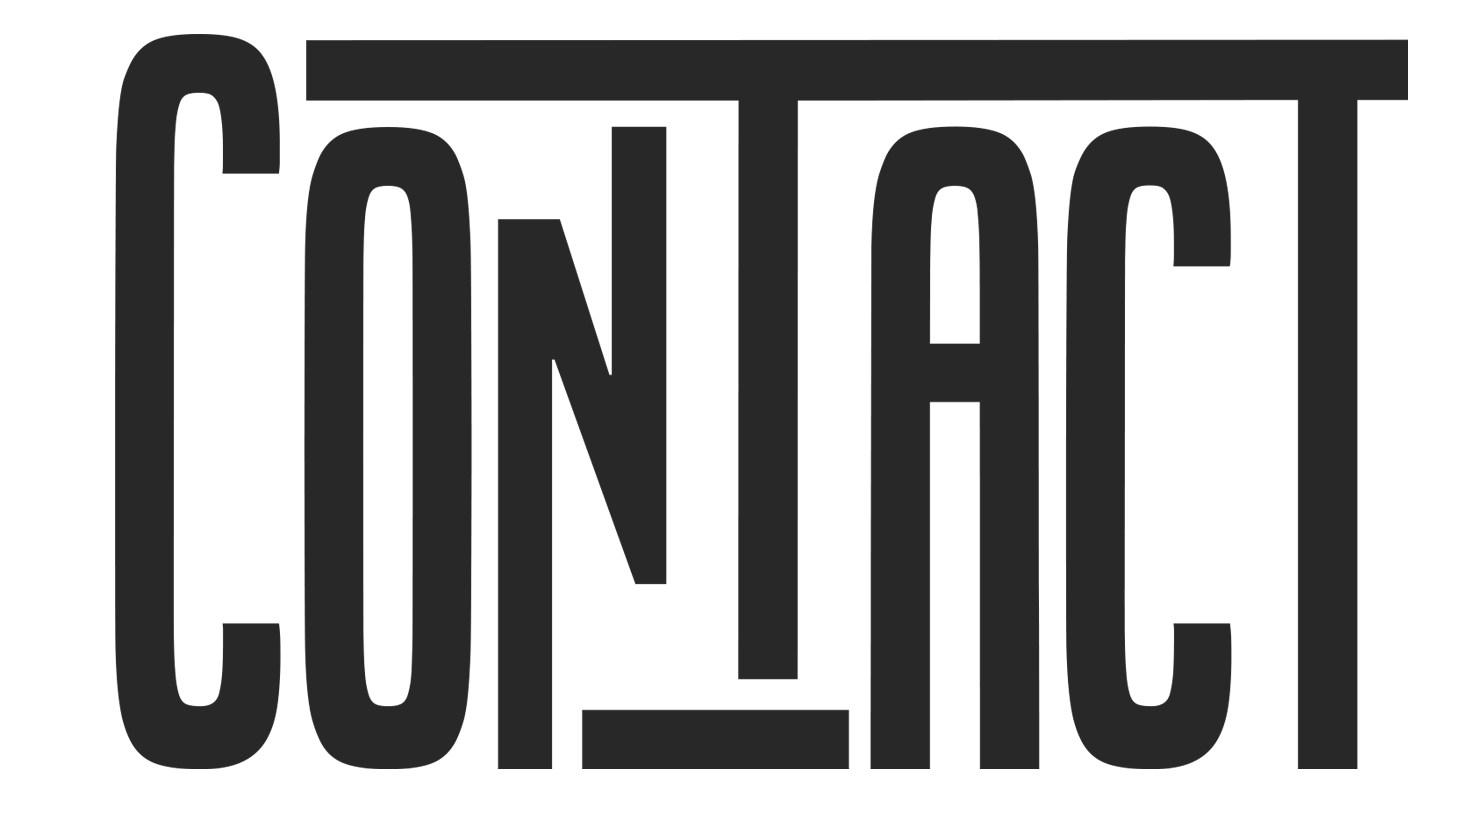
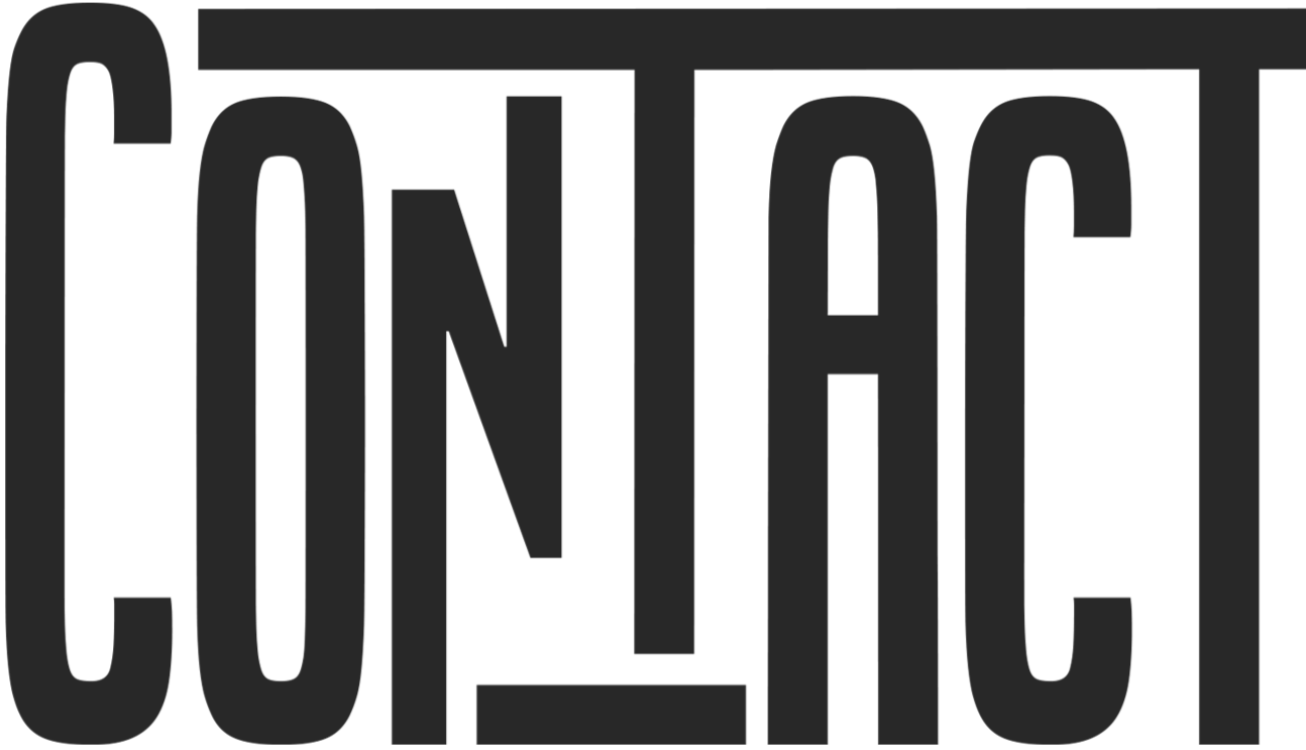
updated menu

diff --git a/sam-harlow/src/layouts/Default.vue b/sam-harlow/src/layouts/Default.vue
@@ -1,9 +1,56 @@
 <template>
   <div class="layout">
     <header class="header">
-      <g-link to="/contact"
-        ><g-image src="@/assets/images/contact.png" width="75px"
-      /></g-link>
+      <g-link to="/contact">
+      <svg version="1.0" xmlns="http://www.w3.org/2000/svg"
+ width="1306.000000pt"  viewBox="0 0 1306.000000 750.000000"
+ preserveAspectRatio="xMidYMid meet">
+
+<g transform="translate(0.000000,750.000000) scale(0.100000,-0.100000)"stroke="none">
+<path d="M662 7459 c-237 -28 -369 -114 -459 -300 -72 -147 -96 -260 -123
+-564 -28 -310 -36 -5237 -10 -5600 43 -596 163 -828 467 -905 113 -29 347 -44
+496 -31 219 19 345 69 457 181 137 136 196 315 221 672 12 167 9 575 -4 596
+-6 9 -75 12 -286 12 l-279 0 -5 -287 c-9 -474 -33 -534 -220 -542 -217 -8
+-247 54 -268 559 -14 345 -4 5077 12 5270 16 206 45 297 104 336 29 19 151 31
+209 20 47 -9 95 -50 117 -101 30 -68 49 -256 49 -491 l0 -214 286 0 286 0 -5
+328 c-4 273 -8 347 -26 449 -85 492 -257 626 -796 622 -82 -1 -183 -5 -223
+-10z"/>
+<path d="M1985 7397 c-3 -7 -4 -143 -3 -302 l3 -290 2184 -3 2184 -2 -4 -2918
+-4 -2917 295 0 295 0 3 2916 2 2916 1298 6 c713 4 1849 7 2525 7 l1227 0 0
+-3375 0 -3375 23 -5 c12 -3 146 -4 297 -3 l275 3 5 3375 5 3375 233 3 232 2 0
+300 0 300 -5535 0 c-4448 0 -5537 -2 -5540 -13z"/>
+<path d="M8352 6530 c-188 -16 -321 -62 -406 -140 -115 -106 -192 -304 -232
+-595 -21 -157 -32 -1397 -33 -3916 -1 -1648 0 -1817 15 -1823 20 -8 548 -8
+568 0 15 6 16 178 16 1855 l0 1849 250 0 250 0 0 -1849 c0 -1677 1 -1849 16
+-1855 9 -3 141 -6 295 -6 221 0 281 3 285 13 10 27 -15 5530 -26 5637 -45 443
+-143 662 -340 758 -135 66 -388 94 -658 72z m312 -613 c97 -64 116 -239 116
+-1058 0 -278 -2 -508 -4 -510 -2 -2 -115 -3 -250 -1 l-246 3 0 527 c0 856 22
+1013 146 1052 49 16 207 7 238 -13z"/>
+<path d="M10322 6530 c-284 -25 -425 -107 -520 -301 -80 -165 -108 -315 -133
+-724 -17 -283 -19 -4328 -1 -4520 39 -439 92 -620 222 -758 100 -107 221 -150
+470 -168 256 -18 468 12 605 84 74 40 171 134 213 207 42 76 88 217 106 328
+24 145 39 459 33 650 -4 95 -9 177 -12 183 -4 5 -121 9 -284 9 l-278 0 -6
+-277 c-9 -496 -41 -562 -265 -551 -62 3 -98 9 -116 21 -63 42 -91 159 -107
+453 -14 280 -6 4303 9 4449 21 193 53 279 114 311 50 27 201 26 248 -2 85 -49
+109 -156 117 -526 l6 -268 277 0 c244 0 279 2 284 16 10 25 7 459 -4 584 -41
+468 -163 691 -417 765 -118 34 -387 51 -561 35z"/>
+<path d="M2566 6519 c-167 -23 -271 -67 -353 -149 -137 -139 -209 -399 -233
+-845 -13 -252 -13 -4192 0 -4450 12 -224 24 -336 52 -465 24 -112 77 -256 120
+-323 40 -62 116 -130 182 -161 212 -101 774 -95 967 10 103 57 195 184 247
+344 65 198 82 398 92 1065 12 719 4 3791 -10 4005 -14 225 -37 398 -66 499
+-85 293 -194 406 -439 458 -85 17 -460 26 -559 12z m354 -595 c70 -28 100 -96
+121 -279 16 -135 24 -4078 10 -4449 -18 -445 -47 -506 -241 -506 -175 0 -214
+61 -240 365 -14 168 -14 4348 0 4521 19 225 48 310 120 346 46 24 174 24 230
+2z"/>
+<path d="M5070 5286 c0 -1184 -2 -1277 -26 -1253 -2 2 -97 294 -210 648 -113
+354 -225 705 -249 779 l-43 135 -311 3 -311 2 0 -2769 c0 -2516 1 -2769 16
+-2775 9 -3 130 -6 270 -6 l254 0 0 2070 c0 1753 2 2070 14 2070 14 0 45 -85
+579 -1565 l252 -700 153 -3 152 -3 0 2306 0 2305 -270 0 -270 0 0 -1244z"/>
+<path d="M4770 356 c0 -259 2 -295 16 -300 24 -9 2647 -7 2662 2 9 7 12 73 10
+298 l-3 289 -1342 3 -1343 2 0 -294z"/>
+</g>
+</svg>
+</g-link>
 
       <g-link to="/"
         ><svg
@@ -22,7 +69,7 @@
 -7 -435 13 -597 89 -711 64 -95 168 -173 393 -294 260 -140 370 -231 394 -323
 6 -22 11 -771 13 -1847 3 -1925 4 -1884 -43 -1961 -26 -43 -66 -57 -163 -57
 -123 0 -158 27 -185 143 -7 29 -11 295 -11 721 0 372 -3 1183 -7 1802 l-6
-1127 -240 0 -240 0 7 -1162 c8 -1414 24 -2620 36 -2746 16 -170 105 -307 241
+1127 -240 0 -240 0 7 -1162 c8 -1414 24 -2620 36 -2746 16 -170 105 -307 241 
 -373 96 -47 177 -59 401 -59 305 1 420 32 533 146 86 87 133 208 170 434 13
 83 15 336 15 2025 0 1854 -1 1934 -19 2022 -48 230 -121 303 -496 498 -248
 130 -354 212 -374 289 -30 121 -22 443 14 533 22 54 51 72 128 80 77 7 138 -9
@@ -64,9 +111,66 @@
           </g></svg
       ></g-link>
 
-      <g-link to="/contact"
-        ><g-image src="@/assets/images/coverart.png" width="75px"
-      /></g-link>
+      <g-link to="/cover-art"
+        ><svg version="1.0" xmlns="http://www.w3.org/2000/svg"
+ width="1525.000000pt" viewBox="0 0 1525.000000 750.000000"
+ preserveAspectRatio="xMidYMid meet">
+
+<g transform="translate(0.000000,750.000000) scale(0.100000,-0.100000)"
+ stroke="none">
+<path d="M673 7380 c-173 -22 -269 -59 -351 -133 -87 -81 -164 -231 -197 -386
+-56 -268 -64 -666 -64 -3406 -1 -2132 3 -2382 35 -2635 42 -331 142 -533 303
+-614 128 -65 394 -99 619 -78 410 37 588 224 649 681 17 132 26 697 11 734 -7
+16 -30 17 -280 17 l-273 0 -3 -242 c-3 -362 -30 -500 -104 -546 -70 -43 -235
+-37 -286 11 -59 55 -80 179 -91 532 -12 373 -3 4887 10 5094 14 243 40 335
+106 378 22 14 48 18 128 18 88 0 104 -3 132 -23 76 -54 103 -193 103 -540 l0
+-232 278 2 277 3 -1 305 c0 233 -4 333 -18 423 -57 393 -188 568 -466 622
+-100 20 -409 28 -517 15z"/>
+<path d="M2543 7379 c-296 -34 -416 -129 -513 -404 -38 -110 -64 -259 -82
+-470 -19 -230 -19 -5279 0 -5495 20 -225 40 -346 78 -459 99 -299 215 -387
+554 -422 233 -23 518 8 646 71 183 90 286 320 324 730 36 382 36 5270 0 5650
+-37 396 -137 630 -307 722 -134 73 -442 107 -700 77z m309 -581 c76 -23 108
+-90 129 -273 16 -132 25 -4924 10 -5290 -17 -433 -44 -488 -236 -489 -141 -1
+-174 25 -206 161 -39 162 -40 307 -36 2988 3 2355 5 2598 20 2683 26 144 58
+202 123 222 43 12 151 12 196 -2z"/>
+<path d="M3702 7038 l3 -293 863 -3 862 -2 0 295 0 295 -865 0 -865 0 2 -292z"/>
+<path d="M5670 3725 l0 -3605 1630 0 1630 0 0 310 0 310 -1337 2 -1338 3 -3
+2267 -2 2268 377 2 378 3 3 260 c1 143 0 270 -3 283 l-5 22 -375 0 -375 0 2
+443 3 442 383 3 382 2 0 295 0 295 -675 0 -675 0 0 -3605z"/>
+<path d="M7310 4256 l0 -3076 290 0 290 0 2 2008 3 2007 65 3 c143 7 202 -23
+234 -120 23 -71 52 -274 71 -493 8 -99 20 -232 26 -295 9 -102 27 -1860 29
+-2777 l0 -333 306 0 306 0 -7 1407 c-7 1447 -9 1540 -45 1923 -50 542 -105
+775 -203 870 -20 19 -37 42 -37 51 0 10 27 32 65 55 135 79 183 222 206 614
+20 338 -5 685 -62 853 -67 203 -162 293 -364 349 -77 21 -101 22 -627 26
+l-548 3 0 -3075z m910 2476 c19 -9 44 -34 56 -56 41 -72 49 -144 49 -416 0
+-275 -9 -358 -50 -447 -37 -81 -53 -87 -232 -92 l-153 -3 0 516 0 516 148 0
+c120 0 153 -3 182 -18z"/>
+<path d="M10615 7320 c-105 -11 -208 -35 -270 -64 -201 -92 -312 -360 -345
+-831 -7 -99 -11 -1203 -13 -3225 l-2 -3075 285 0 285 0 3 2253 2 2252 245 0
+245 0 2 -2252 3 -2253 288 -3 287 -2 -1 1987 c-1 2797 -12 4298 -33 4473 -21
+182 -39 262 -81 372 -108 278 -255 362 -655 372 -91 3 -201 1 -245 -4z m286
+-581 c49 -17 76 -45 98 -104 36 -97 43 -218 48 -837 l5 -598 -247 0 -248 0 6
+593 c3 327 11 630 17 677 22 174 53 239 125 265 49 17 150 19 196 4z"/>
+<path d="M11885 7317 c-3 -7 -4 -138 -3 -292 l3 -280 1110 -5 1110 -5 5 -3305
+5 -3305 288 -3 287 -2 0 3294 c0 1812 3 3301 6 3310 5 14 37 16 250 16 l244 0
+0 295 0 295 -1650 0 c-1321 0 -1652 -3 -1655 -13z"/>
+<path d="M3700 6303 c0 -5 20 -309 45 -678 25 -368 68 -1014 95 -1435 27 -421
+66 -999 85 -1285 19 -286 50 -756 70 -1045 19 -289 51 -775 70 -1080 19 -305
+38 -579 41 -608 l5 -52 455 0 c355 0 455 3 459 13 2 6 15 192 29 412 45 689
+174 2653 216 3275 79 1182 160 2426 160 2458 l0 32 -304 0 -304 0 -6 -72 c-3
+-40 -10 -183 -16 -318 -22 -528 -131 -3021 -180 -4100 -17 -366 -30 -668 -30
+-672 0 -13 -40 -9 -45 5 -2 6 -11 190 -19 407 -26 633 -158 3773 -184 4360
+l-17 385 -312 3 c-172 1 -313 -1 -313 -5z"/>
+<path d="M11885 6278 c-3 -7 -4 -1394 -3 -3083 l3 -3070 287 -3 288 -2 2 2017
+3 2018 82 3 c46 2 101 -2 123 -8 92 -25 125 -133 164 -540 46 -482 47 -518 54
+-2030 l7 -1455 304 -3 304 -2 -6 1487 -6 1488 -25 265 c-45 471 -69 636 -112
+780 -33 107 -55 151 -105 205 -21 23 -39 45 -39 49 0 3 32 26 70 51 112 72
+152 152 187 377 26 166 26 743 0 908 -52 326 -171 477 -423 537 -95 22 -1151
+33 -1159 11z m940 -610 c19 -20 41 -59 49 -89 26 -86 39 -269 31 -444 -11
+-261 -41 -381 -108 -429 -26 -19 -43 -21 -180 -21 l-152 0 -3 500 c-1 275 0
+506 3 513 4 11 38 13 166 10 l161 -3 33 -37z"/>
+</g>
+</svg></g-link>
 
       <!-- <g-link to="/">{{ $static.metadata.siteName }}</g-link> -->
       <nav class="nav"></nav>
@@ -161,19 +265,17 @@ body {
 
   svg {
     fill: #2a2a2a;
-  }
-
-  img {
     width: 75px;
-  }
-
-  .logo {
-    width: 150px;
-
+    padding-bottom:10px;
     &:hover {
       fill: #2a2a2a;
       border-bottom: 5px solid #2a2a2a;
     }
+  }
+
+  .logo {
+    padding-bottom:0px;
+    width: 150px;
   }
 }
 
